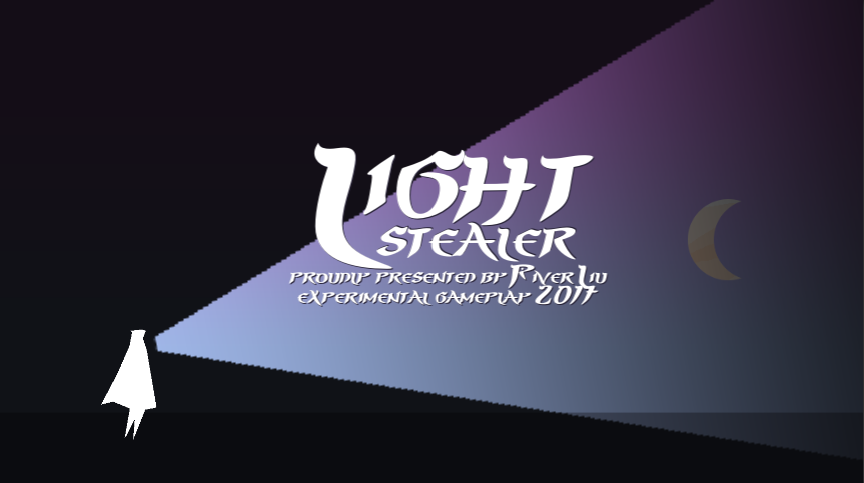
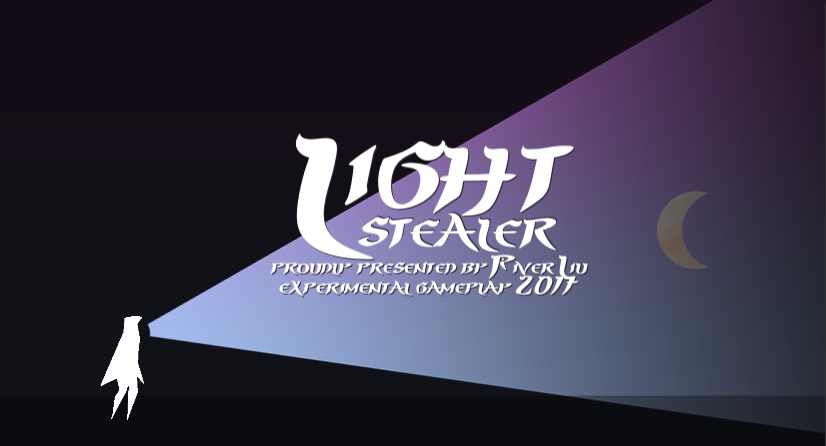
- revive character from the last level start point - modify charater and animation - after death, apply a punish score instead of resetting score. reset difficulty level - fix detection problem - add more levelcards (0-9)

Changed region(s): [[0.1211, 0.0, 0.9988, 0.991], [0.7869, 0.5247, 0.8475, 0.6121], [0.8172, 0.4372, 0.8475, 0.4955]]

diff --git a/Assets/Scripts/GameController.cs b/Assets/Scripts/GameController.cs
@@ -20,7 +20,8 @@ public class GameController : MonoBehaviour {
 	// score
 	private int objective_score;
 	private int objective_small_score;
-	public int score;
+	private int score;
+	private int punish_score;
 
 	// mask
 	public SpriteRenderer mask;
@@ -38,6 +39,7 @@ public class GameController : MonoBehaviour {
 	public bool is_using_sightline;
 	private bool is_start;
 	private bool is_start_time_set;
+	private float player_revive_position_x;
 
 	// levels
 	public List <GameObject> levelcards;
@@ -48,6 +50,7 @@ public class GameController : MonoBehaviour {
 	private float levelcard_end_x;
 	private int levelcard_id;
 	private bool is_respawn;
+	private float player_level_offset_x;
 
 	// UI
 	public GameObject UI_title;
@@ -87,6 +90,7 @@ public class GameController : MonoBehaviour {
 		objective_score = 10;
 		objective_small_score = 1;
 		score = 0;
+		punish_score = 50;
 
 		// mask
 		objective_small_color = new Color32 (255, 255, 255, 0);
@@ -102,6 +106,7 @@ public class GameController : MonoBehaviour {
 		is_using_sightline = true;
 		is_start = false;
 		is_start_time_set = false;
+		player_revive_position_x = player_transform.position.x;
 
 		// levels
 		levelcards = generator.GenerateLevecards ();
@@ -110,6 +115,7 @@ public class GameController : MonoBehaviour {
 		levelcard_id = -1;
 		levelcard = null;
 		is_respawn = false;
+		player_level_offset_x = player.GetMinX () - levelcard_start_x;
 
 		// guards
 		guards_transform = transform.Find ("Guards");
@@ -231,8 +237,12 @@ public class GameController : MonoBehaviour {
 			}
 		}
 		*/
-		player.SetDie ();
-		End ();
+		if (state == States.GAME)
+		{
+			player.SetDie ();
+			SetPlayerRevivePositionX ();
+			End ();
+		}
 	}
 
 	public void AddScore (string tag)
@@ -330,9 +340,17 @@ public class GameController : MonoBehaviour {
 
 	public void Restart ()
 	{
-		score = 0;
+		score = Mathf.Max (0, score - punish_score);
+		difficulty_level = 0;
+
 		input.Init ();
 		player.Init ();
+
+		foreach (Transform guard_transform in guards_transform)
+		{
+			guard_transform.GetComponent <GuardController> (). Init ();
+		}
+
 		RespawnLevel ();
 		state = States.GAME;
 	}
@@ -504,5 +522,20 @@ public class GameController : MonoBehaviour {
 	public void StartGame ()
 	{
 		is_start = true;
+	}
+
+	public void SetPlayerRevivePositionX ()
+	{
+		player_revive_position_x = levelcard_start_x + player_level_offset_x;
+	}
+
+	public float GetPlayerRevivePositionX ()
+	{
+		return player_revive_position_x;
+	}
+
+	public float GeMinX ()
+	{
+		return levelcard_start_x + player_level_offset_x;
 	}
 }

diff --git a/Assets/Scripts/SightTriggerController.cs b/Assets/Scripts/SightTriggerController.cs
@@ -12,7 +12,6 @@ public class SightTriggerController : MonoBehaviour {
 	public Transform player_in_range;
 	public List <Transform> guard_in_range;
 	private GameController game;
-	private bool is_notified;
 
 	// Use this for initialization
 	void Start ()
@@ -33,8 +32,6 @@ public class SightTriggerController : MonoBehaviour {
 		sight = transform.parent;
 
 		guard_in_range = new List <Transform> ();
-
-		is_notified = false;
 	}
 
 	// Update is called once per frame
@@ -42,16 +39,15 @@ public class SightTriggerController : MonoBehaviour {
 	{
 		if (is_guard && player_in_range != null)
 		{
+			// print (Time.time + " player_in_range");
 			if (player_in_range.gameObject.GetComponent <PlayerController> ().GetInLight ()) // is player in light
 			{
+				// print (Time.time + " player_in_light");
 				if (Vector3.Distance (player_in_range.position, transform.position) <= guard.GetSightRange ()) // is player in sight range
 				{
-					if (!is_notified) // notify game controller
-					{
-						game.PlayerIsDiscoveredByGuard (player_in_range);
-						guard.SetPlayerInSight (player_in_range);
-						is_notified = true;
-					}
+					// print (Time.time + " player_in_sight");
+					game.PlayerIsDiscoveredByGuard (player_in_range);
+					guard.SetPlayerInSight (player_in_range);
 				}
 			}
 			// else: is player in dark, nothing happens
@@ -69,6 +65,14 @@ public class SightTriggerController : MonoBehaviour {
 		{
 			guard_in_range.Add (other.transform);
 			other.gameObject.GetComponent <GuardController> ().SetInSight (true);
+		}
+	}
+
+	void OnTriggerStay2D (Collider2D other)
+	{
+		if (is_guard && other.tag == Tags.PLAYER)
+		{
+			player_in_range = other.transform;
 		}
 	}
 

diff --git a/Assets/Scripts/LevelGenerator.cs b/Assets/Scripts/LevelGenerator.cs
@@ -193,11 +193,15 @@ public class LevelLibrary {
 	{
 		levels = new List<Level> ();
 		levels.Add (new Level (0, 0, 0, 4, new int[] {0, 1, 1, 2, 1, 1, 0}));
-		levels.Add (new Level (0, 1, 4, 6, new int[] {0, 1, 2, 1, 2, 1, 2, 1, 0}));
-		levels.Add (new Level (0, 1, 10, 8, new int[] {1, 2, 3, 2, 1, 2, 3, 2, 1}));
-		levels.Add (new Level (0, 2, 100, 10, new int[] {1, 3, 2, 2, 3, 3, 2, 2, 3, 1}));
-		levels.Add (new Level (0, 3, 100, 12, new int[] {1, 3, 2, 3, 4, 3, 2, 3, 4, 3, 2, 3, 1}));
-		levels.Add (new Level (0, 3, 100, 14, new int[] {1, 2, 3, 1, 4, 2, 3, 2, 4, 1, 3, 2, 1}));
+		levels.Add (new Level (1, 1, 4, 6, new int[] {0, 1, 2, 1, 2, 1, 2, 1, 0}));
+		levels.Add (new Level (2, 1, 10, 8, new int[] {1, 2, 3, 2, 1, 2, 3, 2, 1}));
+		levels.Add (new Level (3, 2, 100, 10, new int[] {1, 3, 2, 2, 3, 3, 2, 2, 3, 1}));
+		levels.Add (new Level (4, 2, 100, 12, new int[] {1, 3, 2, 3, 4, 3, 2, 3, 4, 3, 2, 3, 1}));
+		levels.Add (new Level (5, 3, 100, 12, new int[] {1, 2, 3, 1, 4, 2, 3, 2, 4, 1, 3, 2, 1}));
+		levels.Add (new Level (6, 3, 100, 12, new int[] {1, 2, 3, 1, 4, 2, 5, 6, 2, 4, 1, 3, 2, 1}));
+		levels.Add (new Level (7, 4, 100, 12, new int[] {1, 2, 5, 6, 4, 2, 5, 6, 2, 4, 5, 6, 2, 1}));
+		levels.Add (new Level (8, 4, 100, 14, new int[] {1, 3, 5, 6, 4, 2, 3, 5, 6, 3, 2, 4, 5, 6, 3, 1}));
+		levels.Add (new Level (9, 5, 100, 14, new int[] {2, 3, 5, 6, 3, 2, 4, 5, 6, 4, 2, 3, 5, 6, 3, 2}));
 	}
 
 	public Level GetLevel (int id)

diff --git a/Assets/Scripts/PlayerController.cs b/Assets/Scripts/PlayerController.cs
@@ -138,7 +138,7 @@ public class PlayerController : MonoBehaviour {
 
 	void UpdateState ()
 	{
-		if (is_in_light_buffer[0] && is_in_light_buffer[1] && is_in_light)
+		if (GetInLight ())
 		{
 			render.material.SetColor ("_Color", original_color);
 			particle.startColor = particle_color_in_light;
@@ -247,7 +247,7 @@ public class PlayerController : MonoBehaviour {
 
 	public bool GetInLight ()
 	{
-		return is_in_light_buffer[1] && is_in_light;
+		return is_in_light_buffer[0] && is_in_light_buffer[1] && is_in_light;
 	}
 
 	void OnTriggerEnter2D (Collider2D other)
@@ -449,7 +449,7 @@ public class PlayerController : MonoBehaviour {
 		gravity = 16f;
 		up_speed = 0f;
 		down_speed = 0f;
-		transform.position = original_position;
+		transform.position = new Vector3 (game.GetPlayerRevivePositionX(), original_position.y, original_position.z);
 
 		particle.startColor = Color.white;
 		// particle.startSize = 3f;
@@ -474,5 +474,10 @@ public class PlayerController : MonoBehaviour {
 		// sightline
 		is_sightline_disabled = true;
 		sightline_disable_time_limit += sightline_disable_time_limit_base;
+	}
+
+	public float GetMinX ()
+	{
+		return min_x;
 	}
 }

diff --git a/Assets/Scripts/GuardController.cs b/Assets/Scripts/GuardController.cs
@@ -36,7 +36,7 @@ public class GuardController : MonoBehaviour {
 		original_color = render.color;
 		is_player_in_sight = false;
 		is_in_sight = false;
-		visiable_range = 7f;
+		visiable_range = 8f;
 		game = GameObject.Find ("Root").GetComponent <GameController> ();
 		sight = transform.Find ("Sight").gameObject.GetComponent <SightController> ();
 		original_sight_rotation = transform.Find ("Sight").rotation.eulerAngles;
@@ -144,9 +144,15 @@ public class GuardController : MonoBehaviour {
 	{
 		is_player_in_sight = true;
 		player = _player;
-		sight.Hide ();
-		gameObject.GetComponent <Collider2D> ().enabled = false;
-		Destroy (gameObject, destroy_delay);
+		// sight.Hide ();
+		// gameObject.GetComponent <Collider2D> ().enabled = false;
+		// Destroy (gameObject, destroy_delay);
+	}
+
+	public void UnsetPlayerInSight ()
+	{
+		is_player_in_sight = false;
+		player = null;
 	}
 
 	public float GetSightRange ()
@@ -208,5 +214,10 @@ public class GuardController : MonoBehaviour {
 	public void SetMovementRange (float _movement_range)
 	{
 		movement_range = _movement_range;
+	}
+
+	public void Init ()
+	{
+		UnsetPlayerInSight ();
 	}
 }

diff --git a/README.md b/README.md
@@ -1,6 +1,9 @@
 # Light Stealer
 
 
+<img src="/Assets/Screenshots/Screen Shot 0.png">
+
+
 ### Play now from my website: [WebGL](http://riverliu.net/game/light-stealer-2017-03/)
 
 
